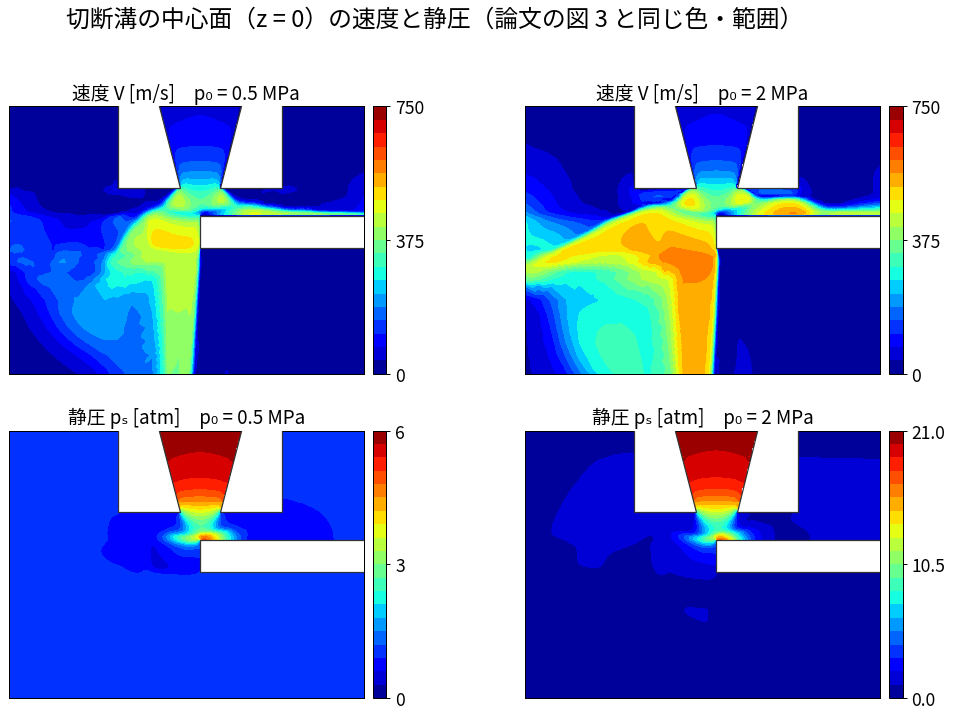
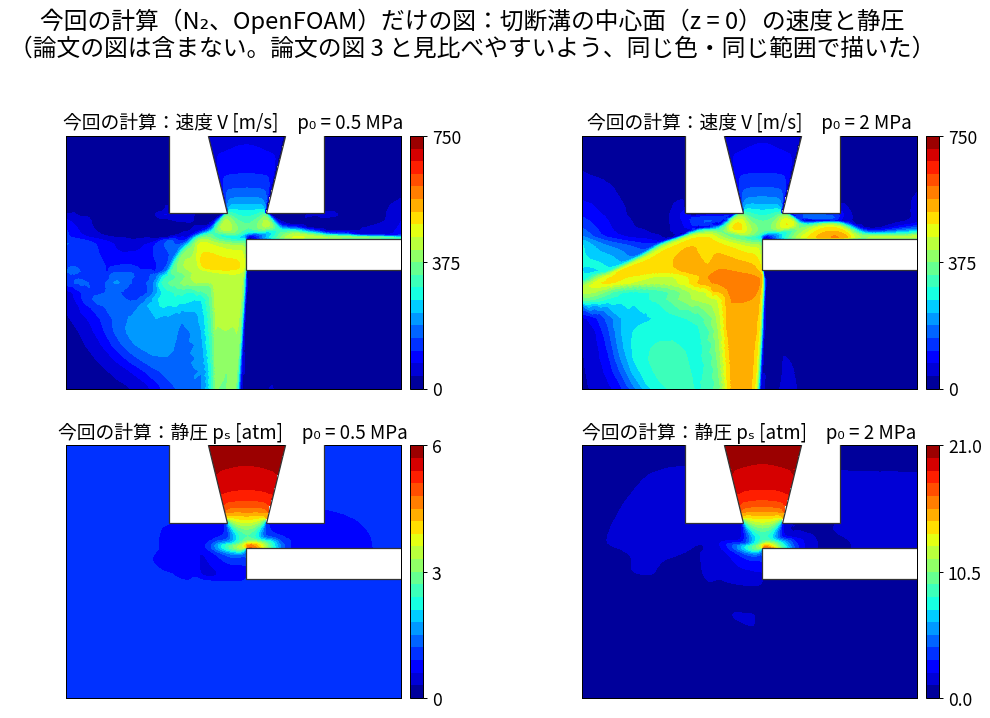
Label the Fig. 3-style contour figure as CFD-only
Claude-Session: https://claude.ai/code/session_016m5W9oGVawBEEW3XmaGQkp

diff --git a/02_laserAssistGas/docs/04_run004_3次元切断溝モデル_条件と結果.html b/02_laserAssistGas/docs/04_run004_3次元切断溝モデル_条件と結果.html
@@ -649,7 +649,8 @@ N₂。比熱比がほぼ同じなので、流れはほぼ同じになる。</li
 </ul>
 <h3 id="57-コンターの比較論文の図-3">5.7 コンターの比較（論文の図
 3）</h3>
-<p>論文の図 3 と同じ範囲（ノズルのまわり、横 約 13 mm × 縦 約 10
+<p>下の図は<strong>すべて今回の計算の結果</strong>で、論文の図は入っていません。論文の図
+3 と同じ範囲（ノズルのまわり、横 約 13 mm × 縦 約 10
 mm）・同じ色の範囲で描いた、溝の中心面（z = 0）の速度と静圧です。</p>
 <ul>
 <li>速度：0〜750 m/s</li>

diff --git a/02_laserAssistGas/tools/compare_contour_jsme2017.py b/02_laserAssistGas/tools/compare_contour_jsme2017.py
@@ -59,8 +59,8 @@ for j, (P, t, tri, V, ps) in enumerate(data):
         lev = np.linspace(lo, hi, 21)
         cs = ax.tricontourf(tri, np.clip(f, lo, hi), levels=lev, cmap="jet")
         solids(ax, P); ax.set_xlim(*XL); ax.set_ylim(*YL); ax.set_aspect("equal"); ax.set_xticks([]); ax.set_yticks([])
-        ax.set_title(f"今回：{lab}（p₀ = {p0:g} MPa）" if paper else f"{lab}　p₀ = {p0:g} MPa", fontsize=15)
+        ax.set_title(f"今回：{lab}（p₀ = {p0:g} MPa）" if paper else f"今回の計算：{lab}　p₀ = {p0:g} MPa", fontsize=15)
         cb = fig.colorbar(cs, ax=ax, fraction=0.04, pad=0.02, ticks=[lo, (lo + hi) / 2, hi]); cb.ax.tick_params(labelsize=14)
 fig.suptitle("切断溝の中心面（z = 0）の速度と静圧：論文（松村ら 2017、空気、Fluent）と今回（N₂、OpenFOAM）" if paper else
-             "切断溝の中心面（z = 0）の速度と静圧（論文の図 3 と同じ色・範囲）", fontsize=19)
+             "今回の計算（N₂、OpenFOAM）だけの図：切断溝の中心面（z = 0）の速度と静圧\n（論文の図は含まない。論文の図 3 と見比べやすいよう、同じ色・同じ範囲で描いた）", fontsize=19)
 fig.tight_layout(rect=(0, 0, 1, 0.97)); fig.savefig(out, dpi=90, facecolor="white", bbox_inches="tight"); print(out)

diff --git a/02_laserAssistGas/docs/04_run004_3次元切断溝モデル_条件と結果.md b/02_laserAssistGas/docs/04_run004_3次元切断溝モデル_条件と結果.md
@@ -205,7 +205,7 @@ run002・003（軸対称、溝を丸い穴で近似）と違い、**実際の切
 
 ### 5.7 コンターの比較（論文の図 3）
 
-論文の図 3 と同じ範囲（ノズルのまわり、横 約 13 mm × 縦 約 10 mm）・同じ色の範囲で描いた、溝の中心面（z = 0）の速度と静圧です。
+下の図は**すべて今回の計算の結果**で、論文の図は入っていません。論文の図 3 と同じ範囲（ノズルのまわり、横 約 13 mm × 縦 約 10 mm）・同じ色の範囲で描いた、溝の中心面（z = 0）の速度と静圧です。
 - 速度：0〜750 m/s
 - 静圧：0〜(p₀ + 1) atm
 - 色の段：20 段の虹色
